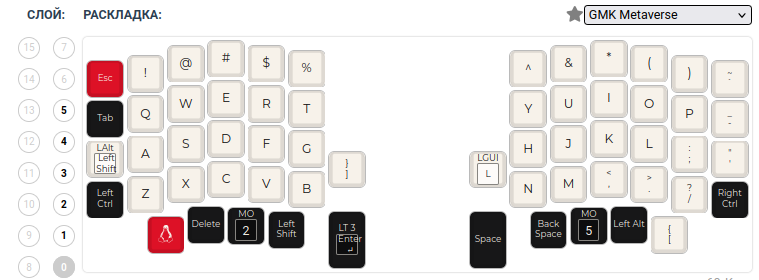
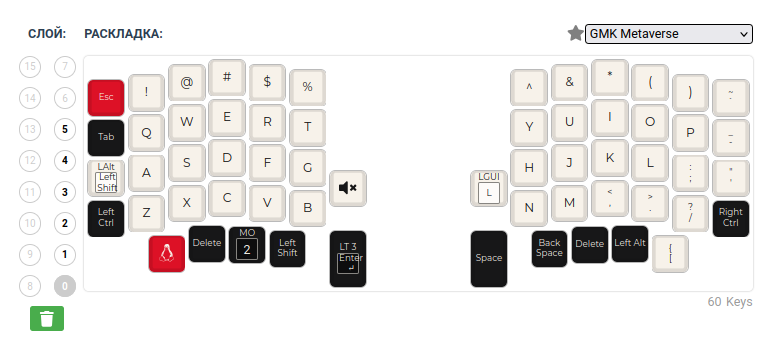
Исправлена раскладка для sofle

diff --git a/keyboards/sofle/keymaps/druotoni/keymap.c b/keyboards/sofle/keymaps/druotoni/keymap.c
@@ -11,12 +11,12 @@
  */
 
 const uint16_t PROGMEM keymaps[][MATRIX_ROWS][MATRIX_COLS] = {
-    [0] = LAYOUT(KC_ESC, KC_EXLM, KC_AT, KC_HASH, KC_DLR, KC_PERC, KC_CIRC, KC_AMPR, KC_ASTR, KC_LPRN, KC_RPRN, KC_GRV, KC_TAB, KC_Q, KC_W, KC_E, KC_R, KC_T, KC_Y, KC_U, KC_I, KC_O, KC_P, KC_MINS, LALT(KC_LSFT), KC_A, KC_S, KC_D, KC_F, KC_G, KC_H, KC_J, KC_K, KC_L, KC_SCLN, KC_QUOT, KC_LCTL, KC_Z, KC_X, KC_C, KC_V, KC_B, KC_RBRC, LGUI(KC_L), KC_N, KC_M, KC_COMM, KC_DOT, KC_SLSH, KC_RCTL, KC_LGUI, KC_DEL, MO(2), KC_LSFT, LT(3,KC_ENT), KC_SPC, KC_BSPC, MO(5), KC_LALT, KC_LBRC),
+    [0] = LAYOUT(KC_ESC, KC_EXLM, KC_AT, KC_HASH, KC_DLR, KC_PERC, KC_CIRC, KC_AMPR, KC_ASTR, KC_LPRN, KC_RPRN, KC_GRV, KC_TAB, KC_Q, KC_W, KC_E, KC_R, KC_T, KC_Y, KC_U, KC_I, KC_O, KC_P, KC_MINS, LALT(KC_LSFT), KC_A, KC_S, KC_D, KC_F, KC_G, KC_H, KC_J, KC_K, KC_L, KC_SCLN, KC_QUOT, KC_LCTL, KC_Z, KC_X, KC_C, KC_V, KC_B, KC_MUTE, LGUI(KC_L), KC_N, KC_M, KC_COMM, KC_DOT, KC_SLSH, KC_RCTL, KC_LGUI, KC_DEL, MO(2), KC_LSFT, LT(3,KC_ENT), KC_SPC, KC_BSPC, KC_DEL, KC_LALT, KC_LBRC),
     [1] = LAYOUT(KC_ESC, KC_1, KC_2, KC_3, KC_4, KC_5, KC_6, KC_7, KC_8, KC_9, KC_0, TO(0), KC_TRNS, KC_TRNS, KC_W, KC_E, KC_R, KC_T, KC_Y, KC_U, KC_I, KC_O, KC_P, KC_MINS, KC_LSFT, KC_A, KC_S, KC_D, KC_F, KC_G, KC_H, KC_J, KC_K, KC_L, KC_SCLN, KC_QUOT, KC_TRNS, KC_Z, KC_X, KC_C, KC_V, KC_B, KC_TRNS, KC_TRNS, KC_K, KC_M, KC_COMM, KC_DOT, KC_SLSH, KC_TRNS, KC_TRNS, KC_TRNS, KC_LALT, KC_SPC, KC_SPC, KC_ENT, KC_ENT, KC_TRNS, KC_TRNS, KC_TRNS),
-    [2] = LAYOUT(TO(0), KC_F1, KC_F2, KC_F3, KC_F4, KC_F5, KC_F6, KC_F7, KC_F8, KC_F9, KC_F10, KC_F11, KC_TRNS, KC_MUTE, KC_VOLU, KC_MPLY, KC_NO, KC_NO, KC_HOME, KC_PGDN, KC_PGUP, KC_END, KC_NO, KC_F12, KC_RSFT, KC_MPRV, KC_VOLD, KC_MNXT, KC_SPC, KC_NO, KC_LEFT, KC_DOWN, KC_UP, KC_RGHT, KC_BSLS, KC_QUOT, KC_TRNS, KC_NO, LCTL(KC_INS), LCTL(KC_INS), KC_NO, KC_NO, KC_TRNS, KC_TRNS, LCTL(KC_LEFT), LCTL(KC_DOWN), LCTL(KC_UP), LCTL(KC_RGHT), LSFT(KC_BSLS), KC_TRNS, KC_TRNS, KC_TRNS, KC_TRNS, KC_TRNS, KC_TRNS, KC_TRNS, KC_TRNS, KC_TRNS, KC_TRNS, KC_TRNS),
-    [3] = LAYOUT(TO(0), KC_F1, KC_F2, KC_F3, KC_F4, KC_F5, KC_F6, KC_F7, KC_F8, KC_F9, KC_F10, KC_F11, KC_TRNS, KC_NO, KC_NO, KC_NO, KC_NO, KC_NO, KC_LBRC, KC_LCBR, KC_RCBR, KC_RBRC, KC_PMNS, KC_F12, KC_TRNS, KC_1, KC_2, KC_3, KC_4, KC_5, KC_6, KC_7, KC_8, KC_9, KC_0, KC_ASTR, KC_TRNS, KC_NO, KC_NO, KC_NO, KC_NO, KC_NO, KC_TRNS, KC_APP, KC_NO, KC_EQL, KC_PPLS, KC_DOT, KC_PSLS, KC_TRNS, KC_TRNS, KC_TRNS, KC_TRNS, KC_TRNS, KC_TRNS, KC_TRNS, KC_TRNS, KC_TRNS, KC_TRNS, KC_TRNS),
+    [2] = LAYOUT(TO(0), KC_F1, KC_F2, KC_F3, KC_F4, KC_F5, KC_F6, KC_F7, KC_F8, KC_F9, KC_F10, KC_F11, KC_TRNS, KC_NO, KC_NO, KC_NO, KC_NO, KC_NO, KC_HOME, KC_PGDN, KC_PGUP, KC_END, KC_NO, KC_F12, KC_TRNS, KC_MPRV, KC_MPLY, KC_MNXT, KC_SPC, KC_NO, KC_LEFT, KC_DOWN, KC_UP, KC_RGHT, KC_BSLS, KC_TRNS, KC_TRNS, KC_NO, KC_NO, KC_NO, KC_NO, KC_NO, MS_BTN2, MS_BTN1, LCTL(KC_LEFT), LCTL(KC_DOWN), LCTL(KC_UP), LCTL(KC_RGHT), LSFT(KC_BSLS), KC_TRNS, KC_TRNS, KC_TRNS, KC_TRNS, KC_TRNS, KC_TRNS, KC_TRNS, KC_TRNS, KC_TRNS, KC_TRNS, KC_RBRC),
+    [3] = LAYOUT(TO(0), KC_F1, KC_F2, KC_F3, KC_F4, KC_F5, KC_F6, KC_F7, KC_F8, KC_F9, KC_F10, KC_F11, KC_TRNS, KC_NO, KC_NO, KC_NO, KC_NO, KC_NO, KC_LBRC, KC_LCBR, KC_RCBR, KC_RBRC, KC_PMNS, KC_F12, KC_TRNS, KC_1, KC_2, KC_3, KC_4, KC_5, KC_6, KC_7, KC_8, KC_9, KC_0, KC_ASTR, KC_TRNS, KC_NO, KC_NO, KC_NO, KC_NO, KC_NO, MS_BTN2, MS_BTN1, KC_NO, KC_EQL, KC_PPLS, KC_PDOT, KC_PSLS, KC_TRNS, KC_TRNS, KC_TRNS, KC_TRNS, KC_TRNS, KC_TRNS, KC_TRNS, KC_TRNS, KC_TRNS, KC_TRNS, KC_TRNS),
     [4] = LAYOUT(TO(0), KC_NO, KC_NO, KC_NO, KC_NO, KC_NO, KC_NUM, KC_INS, KC_PSCR, KC_APP, KC_NO, KC_NO, KC_TRNS, TG(1), KC_RSFT, KC_RCTL, KC_RALT, KC_NO, LCTL(KC_HOME), LCTL(KC_PGDN), LCTL(KC_PGUP), LCTL(KC_END), KC_NO, KC_NO, KC_TRNS, KC_NO, KC_SCRL, KC_PAUS, KC_CAPS, KC_NO, LSFT(KC_LEFT), LSFT(KC_DOWN), LSFT(KC_UP), LSFT(KC_RGHT), KC_NO, KC_NO, KC_TRNS, KC_NO, KC_NO, KC_NO, KC_NO, KC_NO, KC_TRNS, KC_NO, KC_NO, KC_NO, LSFT(KC_INS), LCTL(KC_INS), KC_NO, KC_TRNS, KC_TRNS, KC_TRNS, KC_TRNS, KC_TRNS, KC_TRNS, KC_TRNS, KC_TRNS, KC_TRNS, KC_TRNS, KC_TRNS),
-    [5] = LAYOUT(TO(0), KC_NO, KC_NO, KC_NO, KC_NO, KC_NO, KC_NO, KC_NO, KC_NO, KC_NO, KC_NO, KC_NO, KC_TRNS, KC_NO, LCS(KC_LBRC), LCS(KC_9), LCS(KC_0), LCS(KC_RBRC), KC_NO, KC_NO, KC_NO, KC_NO, KC_NO, KC_NO, KC_TRNS, KC_NO, LGUI(KC_LEFT), LGUI(KC_PGUP), LGUI(KC_PGDN), LGUI(KC_RGHT), KC_NO, KC_NO, KC_NO, KC_NO, KC_NO, KC_NO, KC_TRNS, KC_NO, KC_NO, KC_NO, KC_NO, KC_NO, KC_TRNS, KC_TRNS, KC_NO, KC_NO, KC_NO, KC_NO, KC_NO, KC_TRNS, KC_TRNS, KC_TRNS, KC_TRNS, KC_TRNS, LCG(KC_ENT), KC_TRNS, KC_TRNS, KC_TRNS, KC_TRNS, KC_TRNS)
+    [5] = LAYOUT(TO(0), KC_NO, KC_NO, KC_NO, KC_NO, KC_NO, KC_NO, KC_NO, KC_PSCR, KC_APP, KC_NO, KC_NO, KC_TRNS, KC_NO, LCS(KC_LBRC), LCS(KC_9), LCS(KC_0), LCS(KC_RBRC), KC_NO, LCTL(KC_HOME), LCTL(KC_PGUP), LCTL(KC_PGDN), LCTL(KC_END), KC_NO, KC_TRNS, KC_NO, LGUI(KC_LEFT), LGUI(KC_PGUP), LGUI(KC_PGDN), LGUI(KC_RGHT), KC_NO, LALT(KC_LEFT), LALT(KC_DOWN), LALT(KC_UP), LALT(KC_RGHT), KC_NO, KC_TRNS, KC_NO, KC_NO, KC_NO, KC_NO, KC_NO, MO(1), KC_TRNS, KC_NO, KC_NO, KC_NO, KC_NO, KC_NO, KC_TRNS, KC_TRNS, KC_TRNS, KC_TRNS, KC_TRNS, LCG(KC_ENT), KC_TRNS, KC_TRNS, KC_TRNS, KC_TRNS, KC_TRNS)
 };
 
 

diff --git a/keyboards/sofle/keymaps/druotoni/keymap.h b/keyboards/sofle/keymaps/druotoni/keymap.h
@@ -2,11 +2,11 @@
 
 #include QMK_KEYBOARD_H
 
-const uint16_t PROGMEM MO3_combo[]                  = {MO(2), KC_LSFT, COMBO_END};
+const uint16_t PROGMEM MO3_combo[]                  = {KC_BSPC, KC_N, COMBO_END};
 const uint16_t PROGMEM left_square_bracket_combo[]  = {KC_Y, KC_U, COMBO_END};
 const uint16_t PROGMEM right_square_bracket_combo[] = {KC_H, KC_J, COMBO_END};
 
-combo_t key_combos[] = {COMBO(MO3_combo, MO(4)), COMBO(left_square_bracket_combo, LCTL(KC_INS)), COMBO(right_square_bracket_combo, LSFT(KC_INS))};
+combo_t key_combos[] = {COMBO(MO3_combo, MO(5)), COMBO(left_square_bracket_combo, LCTL(KC_INS)), COMBO(right_square_bracket_combo, LSFT(KC_INS))};
 
 // --------------- key overrides ---------------
 
